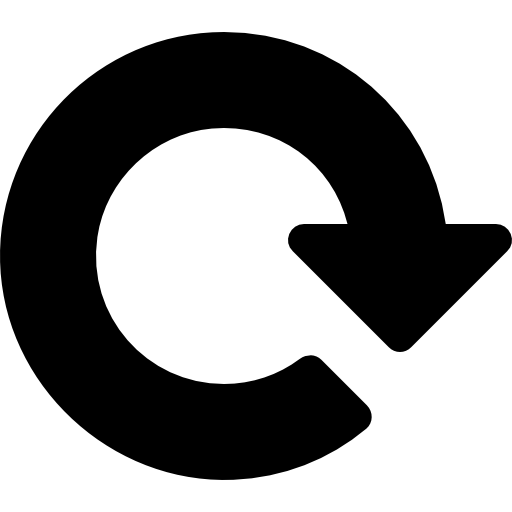
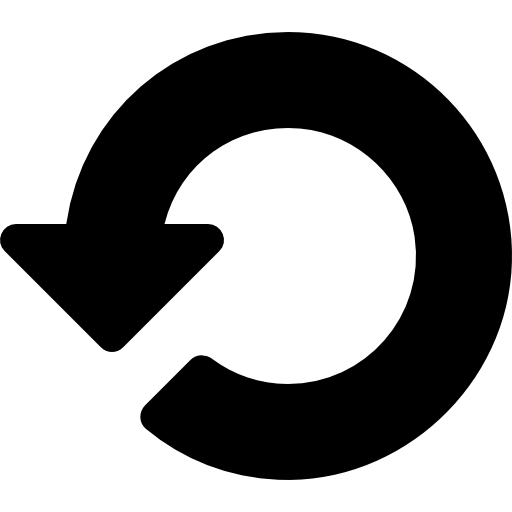
Make video playback controllable
Closes #19

diff --git a/ui/PreviewPopup.qml b/ui/PreviewPopup.qml
@@ -43,9 +43,16 @@ Dialog {
     }
     function showVideo(url) {
         delegateVideo.source = url
+        delegateVideo.loops = lith.settings.loopVideosByDefault ? Multimedia.MediaPlayer.Infinite : 1
+        delegateVideo.volume = lith.settings.muteVideosByDefault ? 0.0 : 1.0
         videoWrapper.visible = true
         imageWrapper.visible = false
         root.open()
+    }
+    onVisibleChanged: {
+        if (!visible) {
+            delegateVideo.stop()
+        }
     }
 
     Item {
@@ -59,37 +66,15 @@ Dialog {
             y: 1
             autoPlay: true
             fillMode: Image.PreserveAspectFit
+            loops: Multimedia.MediaPlayer.Infinite
             width: parent.width - 2
             height: parent.height - 2
             anchors.centerIn: parent
         }
-        Image {
-            anchors.horizontalCenter: parent.horizontalCenter
-            anchors.bottom: parent.bottom
-            anchors.bottomMargin: 80
-            height: 48
-            width: 48
-
-            opacity: 0.6
-            source: delegateVideo.playbackState === Multimedia.MediaPlayer.PlayingState ? "qrc:/navigation/pause.png" :
-                                                                                          "qrc:/navigation/play.png"
-            Rectangle {
-                z: -1
-                anchors.centerIn: parent
-                width: 64
-                height: 64
-                color: "#44000000"
-                radius: 2
-                MouseArea {
-                    anchors.fill: parent
-                    onClicked: {
-                        if (delegateVideo.playbackState === Multimedia.MediaPlayer.PlayingState)
-                            delegateVideo.pause()
-                        else
-                            delegateVideo.play()
-                    }
-                }
-            }
+        BusyIndicator {
+            anchors.centerIn: parent
+            visible: delegateVideo.status === Multimedia.Video.Buffering ||
+                     delegateVideo.status === Multimedia.Video.Loading
         }
         MouseArea {
             anchors.fill: parent
@@ -98,6 +83,92 @@ Dialog {
                 if (mouse.button == Qt.LeftButton) {
                     videoWrapper.visible = false
                     root.visible = false
+                }
+            }
+        }
+
+        RowLayout {
+            anchors.horizontalCenter: parent.horizontalCenter
+            anchors.bottom: parent.bottom
+            anchors.bottomMargin: 80
+            spacing: 64
+
+            Image {
+                id: rewindImage
+                Layout.preferredHeight: 40
+                Layout.preferredWidth: 40
+
+                opacity: 0.6
+
+                source: delegateVideo.loops === Multimedia.MediaPlayer.Infinite ? "qrc:/navigation/reload.png" :
+                                                                            "qrc:/navigation/reload-disabled.png"
+                Rectangle {
+                    z: -1
+                    anchors.centerIn: parent
+                    width: 64
+                    height: 64
+                    color: "#44000000"
+                    radius: 2
+                    MouseArea {
+                        anchors.fill: parent
+                        onClicked: {
+                            if (delegateVideo.loops === Multimedia.MediaPlayer.Infinite)
+                                delegateVideo.loops = 1
+                            else
+                                delegateVideo.loops = Multimedia.MediaPlayer.Infinite
+                        }
+                    }
+                }
+            }
+
+            Image {
+                Layout.preferredHeight: 40
+                Layout.preferredWidth: 40
+
+                opacity: 0.6
+                source: delegateVideo.playbackState === Multimedia.MediaPlayer.PlayingState ? "qrc:/navigation/pause.png" :
+                                                                                              "qrc:/navigation/play.png"
+                Rectangle {
+                    z: -1
+                    anchors.centerIn: parent
+                    width: 64
+                    height: 64
+                    color: "#44000000"
+                    radius: 2
+                    MouseArea {
+                        anchors.fill: parent
+                        onClicked: {
+                            if (delegateVideo.playbackState === Multimedia.MediaPlayer.PlayingState)
+                                delegateVideo.pause()
+                            else
+                                delegateVideo.play()
+                        }
+                    }
+                }
+            }
+
+            Image {
+                Layout.preferredHeight: 40
+                Layout.preferredWidth: 40
+
+                opacity: delegateVideo.hasAudio ? 0.6 : 0.0
+                source: delegateVideo.volume > 0.0 ? "qrc:/navigation/volume.png" : "qrc:/navigation/mute.png"
+                Rectangle {
+                    z: -1
+                    anchors.centerIn: parent
+                    width: 64
+                    height: 64
+                    color: "#44000000"
+                    radius: 2
+                    MouseArea {
+                        anchors.fill: parent
+                        onClicked: {
+                            if (delegateVideo.volume > 0.0)
+                                delegateVideo.volume = 0.0
+                            else
+                                delegateVideo.volume = 1.0
+                        }
+                    }
                 }
             }
         }

diff --git a/ui/SettingsInterface.qml b/ui/SettingsInterface.qml
@@ -31,6 +31,8 @@ ScrollView {
         settings.baseFontSize = baseFontSizeSpinBox.value
         settings.nickCutoffThreshold = nickCutoffThresholdSpinBox.value
         settings.timestampFormat = timestampFormatInput.text
+        settings.muteVideosByDefault = muteVideosByDefaultCheckbox.checked
+        settings.loopVideosByDefault = loopVideosByDefaultCheckbox.checked
     }
     function onRejected() {
         shortenLongUrlsCheckbox.checked = settings.shortenLongUrls
@@ -41,6 +43,8 @@ ScrollView {
         baseFontSizeSpinBox.value = settings.baseFontSize
         nickCutoffThresholdSpinBox.value = settings.nickCutoffThreshold
         timestampFormatInput.text = settings.timestampFormat
+        muteVideosByDefaultCheckbox.checked = settings.muteVideosByDefault
+        loopVideosByDefaultCheckbox.checked = settings.loopVideosByDefault
     }
 
     ColumnLayout {
@@ -89,44 +93,7 @@ ScrollView {
                 }
             }
 
-            Rectangle {
-                Layout.fillWidth: true
-                Layout.columnSpan: 2
-                height: 1
-                color: palette.mid
-            }
-
-            Text {
-                Layout.fillWidth: true
-                Layout.columnSpan: 2
-                text: qsTr("URL shortening")
-                horizontalAlignment: Text.AlignHCenter
-                font.bold: true
-            }
-
-            Text {
-                Layout.alignment: Qt.AlignRight
-                text: qsTr("Enabled")
-            }
-            CheckBox {
-                id: shortenLongUrlsCheckbox
-                checked: settings.shortenLongUrls
-                Layout.alignment: Qt.AlignLeft
-            }
-            Text {
-                Layout.alignment: Qt.AlignRight
-                text: qsTr("Length threshold")
-            }
-            TextField {
-                id: shortenLongUrlsThreshold
-                enabled: shortenLongUrlsCheckbox.checked
-                text: settings.shortenLongUrlsThreshold
-                inputMethodHints: Qt.ImhPreferNumbers
-                validator: IntValidator {
-                    bottom: 0
-                }
-            }
-
+            ////////////////////////// INPUT BAR
             Rectangle {
                 Layout.fillWidth: true
                 Layout.columnSpan: 2
@@ -169,6 +136,78 @@ ScrollView {
                 Layout.alignment: Qt.AlignLeft
             }
 
+            ////////////////////////// URL SHORTENING
+            Rectangle {
+                Layout.fillWidth: true
+                Layout.columnSpan: 2
+                height: 1
+                color: palette.mid
+            }
+
+            Text {
+                Layout.fillWidth: true
+                Layout.columnSpan: 2
+                text: qsTr("URL shortening")
+                horizontalAlignment: Text.AlignHCenter
+                font.bold: true
+            }
+
+            Text {
+                Layout.alignment: Qt.AlignRight
+                text: qsTr("Enabled")
+            }
+            CheckBox {
+                id: shortenLongUrlsCheckbox
+                checked: settings.shortenLongUrls
+                Layout.alignment: Qt.AlignLeft
+            }
+            Text {
+                Layout.alignment: Qt.AlignRight
+                text: qsTr("Length threshold")
+            }
+            TextField {
+                id: shortenLongUrlsThreshold
+                enabled: shortenLongUrlsCheckbox.checked
+                text: settings.shortenLongUrlsThreshold
+                inputMethodHints: Qt.ImhPreferNumbers
+                validator: IntValidator {
+                    bottom: 0
+                }
+            }
+
+            ////////////////////////// MULTIMEDIA
+            Rectangle {
+                Layout.fillWidth: true
+                Layout.columnSpan: 2
+                height: 1
+                color: palette.mid
+            }
+            Text {
+                Layout.fillWidth: true
+                Layout.columnSpan: 2
+                text: qsTr("Multimedia")
+                horizontalAlignment: Text.AlignHCenter
+                font.bold: true
+            }
+
+            Text {
+                Layout.alignment: Qt.AlignRight
+                text: qsTr("Loop videos by default")
+            }
+            CheckBox {
+                id: loopVideosByDefaultCheckbox
+                checked: settings.showSendButton
+                Layout.alignment: Qt.AlignLeft
+            }
+            Text {
+                Layout.alignment: Qt.AlignRight
+                text: qsTr("Mute videos by default")
+            }
+            CheckBox {
+                id: muteVideosByDefaultCheckbox
+                checked: settings.showSendButton
+                Layout.alignment: Qt.AlignLeft
+            }
         }
     }
 }

diff --git a/src/settings.h b/src/settings.h
@@ -55,6 +55,9 @@ class Settings : public QObject {
     SETTING(bool, showAutocompleteButton, true)
     SETTING(bool, showGalleryButton, true)
 
+    SETTING(bool, muteVideosByDefault, true)
+    SETTING(bool, loopVideosByDefault, true)
+
     SETTING(QString, host)
     SETTING(int, port, 9001)
     SETTING(bool, encrypted, true)
